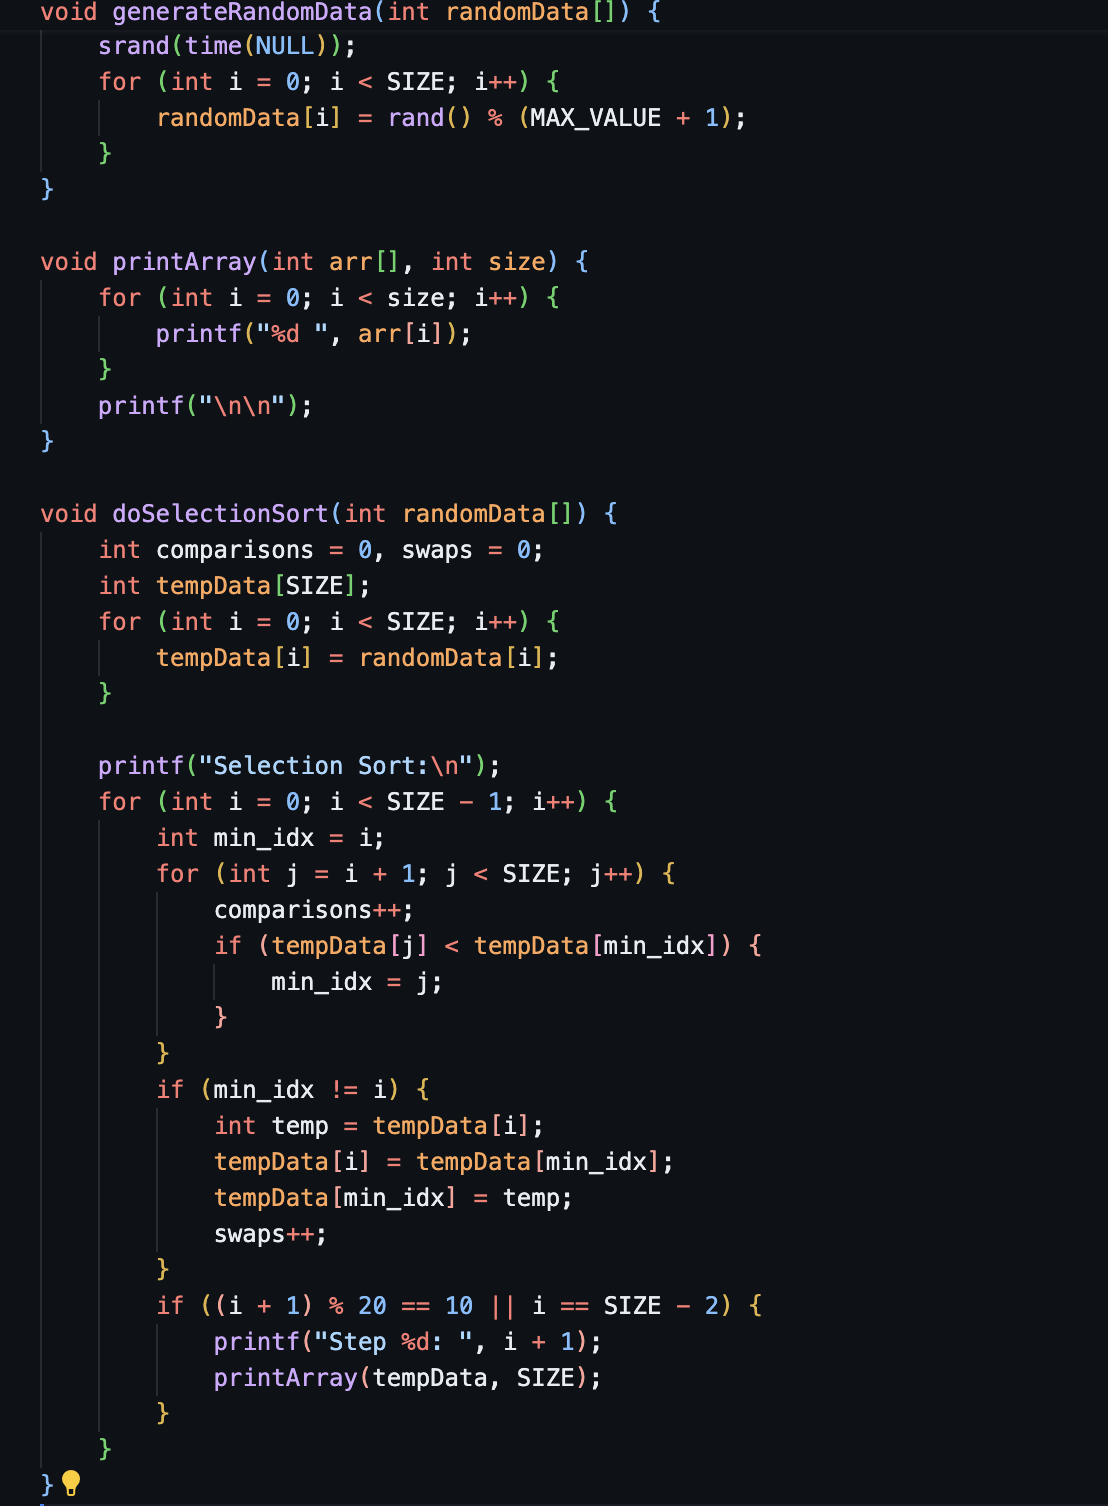
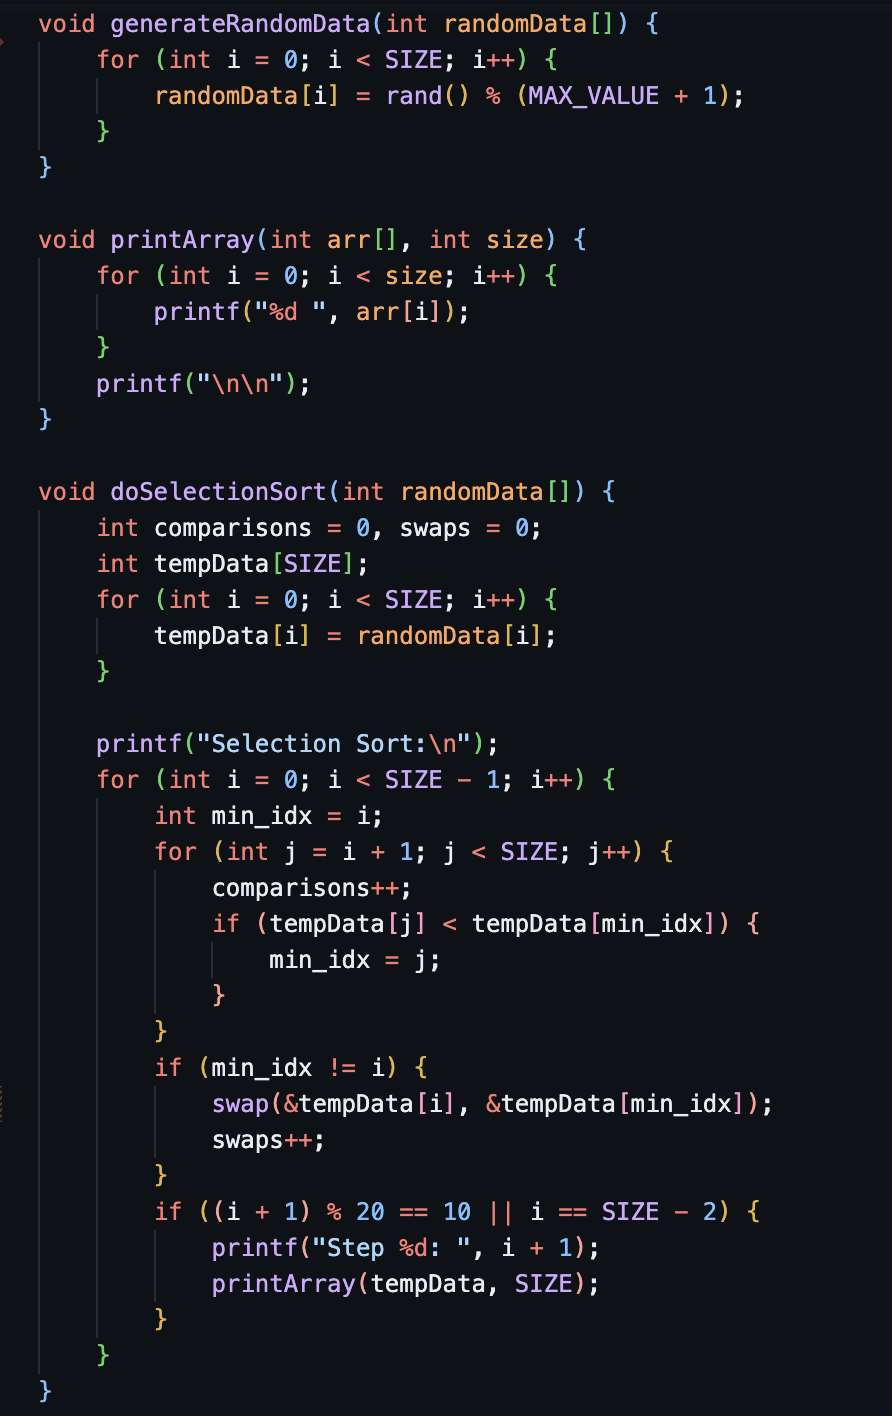
.

diff --git a/11-sort/11-sort.c b/11-sort/11-sort.c
@@ -12,7 +12,6 @@ void swap(int *a, int *b){
 }
 
 void generateRandomData(int randomData[]) {
-    srand(time(NULL));
     for (int i = 0; i < SIZE; i++) {
         randomData[i] = rand() % (MAX_VALUE + 1);
     }
@@ -42,9 +41,7 @@ void doSelectionSort(int randomData[]) {
             }
         }
         if (min_idx != i) {
-            int temp = tempData[i];
-            tempData[i] = tempData[min_idx];
-            tempData[min_idx] = temp;
+            swap(&tempData[i], &tempData[min_idx]);
             swaps++;
         }
         if ((i + 1) % 20 == 10 || i == SIZE - 2) {
@@ -54,16 +51,15 @@ void doSelectionSort(int randomData[]) {
     }
 }
 
-void doInsertionSort(int randomData[]) {
+void doInsertionSort(int originalData[]) {
     int totalComparisons = 0;
     int insert_sortedData[SIZE];
+    srand(time(NULL));
     
     for (int k = 0; k < 20; k++) {
         int tempData[SIZE];
-        for (int i = 0; i < SIZE; i++) {
-            tempData[i] = randomData[i];
-        }
-        int comparisons = 0; // 비교 횟수 카운트
+        generateRandomData(tempData);
+        int comparisons = 0;
         for (int i = 1; i < SIZE; i++) {
             int key = tempData[i];
             int j = i - 1;
@@ -73,15 +69,23 @@ void doInsertionSort(int randomData[]) {
                 comparisons++;
             }
             tempData[j + 1] = key;
-            comparisons++; // 마지막 비교 횟수 추가
+            comparisons++;
         }
-        totalComparisons += comparisons; // 최종 비교 횟수 저장
-        
-        if (k == 19) {
-            for (int i = 0; i < SIZE; i++) {
-                insert_sortedData[i] = tempData[i];
-            }
+        totalComparisons += comparisons;
+    }
+    
+    // 원래 배열을 정렬
+    for (int i = 0; i < SIZE; i++) {
+        insert_sortedData[i] = originalData[i];
+    }
+    for (int i = 1; i < SIZE; i++) {
+        int key = insert_sortedData[i];
+        int j = i - 1;
+        while (j >= 0 && insert_sortedData[j] > key) {
+            insert_sortedData[j + 1] = insert_sortedData[j];
+            j--;
         }
+        insert_sortedData[j + 1] = key;
     }
     
     printf("Insertion Sort Compare Average: %d\n", totalComparisons / 20);
@@ -89,29 +93,34 @@ void doInsertionSort(int randomData[]) {
     printArray(insert_sortedData, SIZE);
 }
 
-void doBubbleSort(int randomData[]) {
+void doBubbleSort(int originalData[]) {
     int totalSwaps = 0;
-    int bubble_sortedData[SIZE], temp;
+    int bubble_sortedData[SIZE];
+    srand(time(NULL));
     
     for (int k = 0; k < 20; k++) {
         int tempData[SIZE];
-        for (int i = 0; i < SIZE; i++) {
-            tempData[i] = randomData[i];
-        }
-        int swaps = 0; // 이동 횟수 카운트
+        generateRandomData(tempData);
+        int swaps = 0;
         for (int i = 0; i < SIZE - 1; i++) {
             for (int j = 0; j < SIZE - i - 1; j++) {
                 if (tempData[j] > tempData[j + 1]) {
                     swap(&tempData[j], &tempData[j + 1]);
-                    swaps += 3; // swap 코드 사용 시 3회 이동
+                    swaps += 3;
                 }
             }
         }
-        totalSwaps += swaps; // 최종 이동 횟수 저장
-        
-        if (k == 19) {
-            for (int i = 0; i < SIZE; i++) {
-                bubble_sortedData[i] = tempData[i];
+        totalSwaps += swaps;
+    }
+    
+    // 원래 배열을 정렬
+    for (int i = 0; i < SIZE; i++) {
+        bubble_sortedData[i] = originalData[i];
+    }
+    for (int i = 0; i < SIZE - 1; i++) {
+        for (int j = 0; j < SIZE - i - 1; j++) {
+            if (bubble_sortedData[j] > bubble_sortedData[j + 1]) {
+                swap(&bubble_sortedData[j], &bubble_sortedData[j + 1]);
             }
         }
     }
